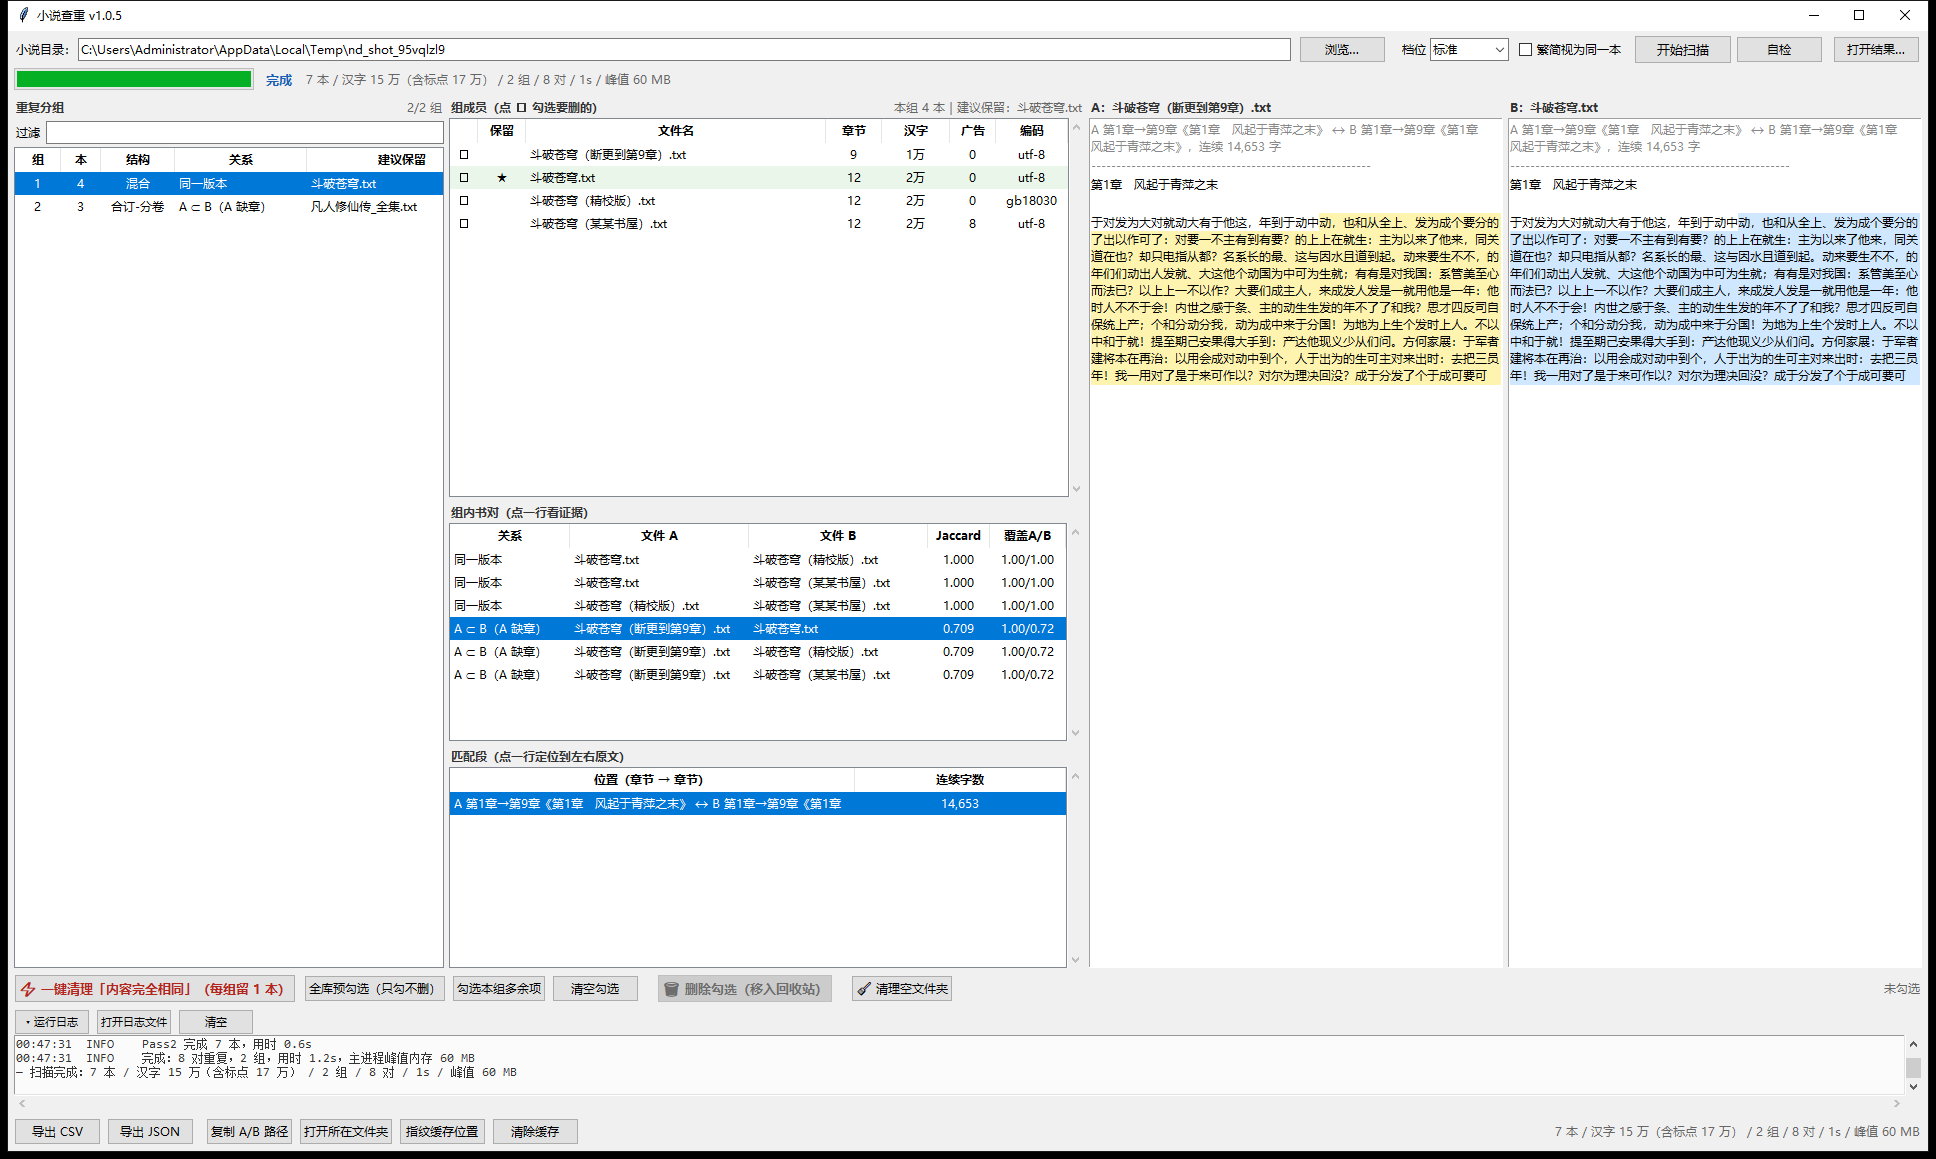
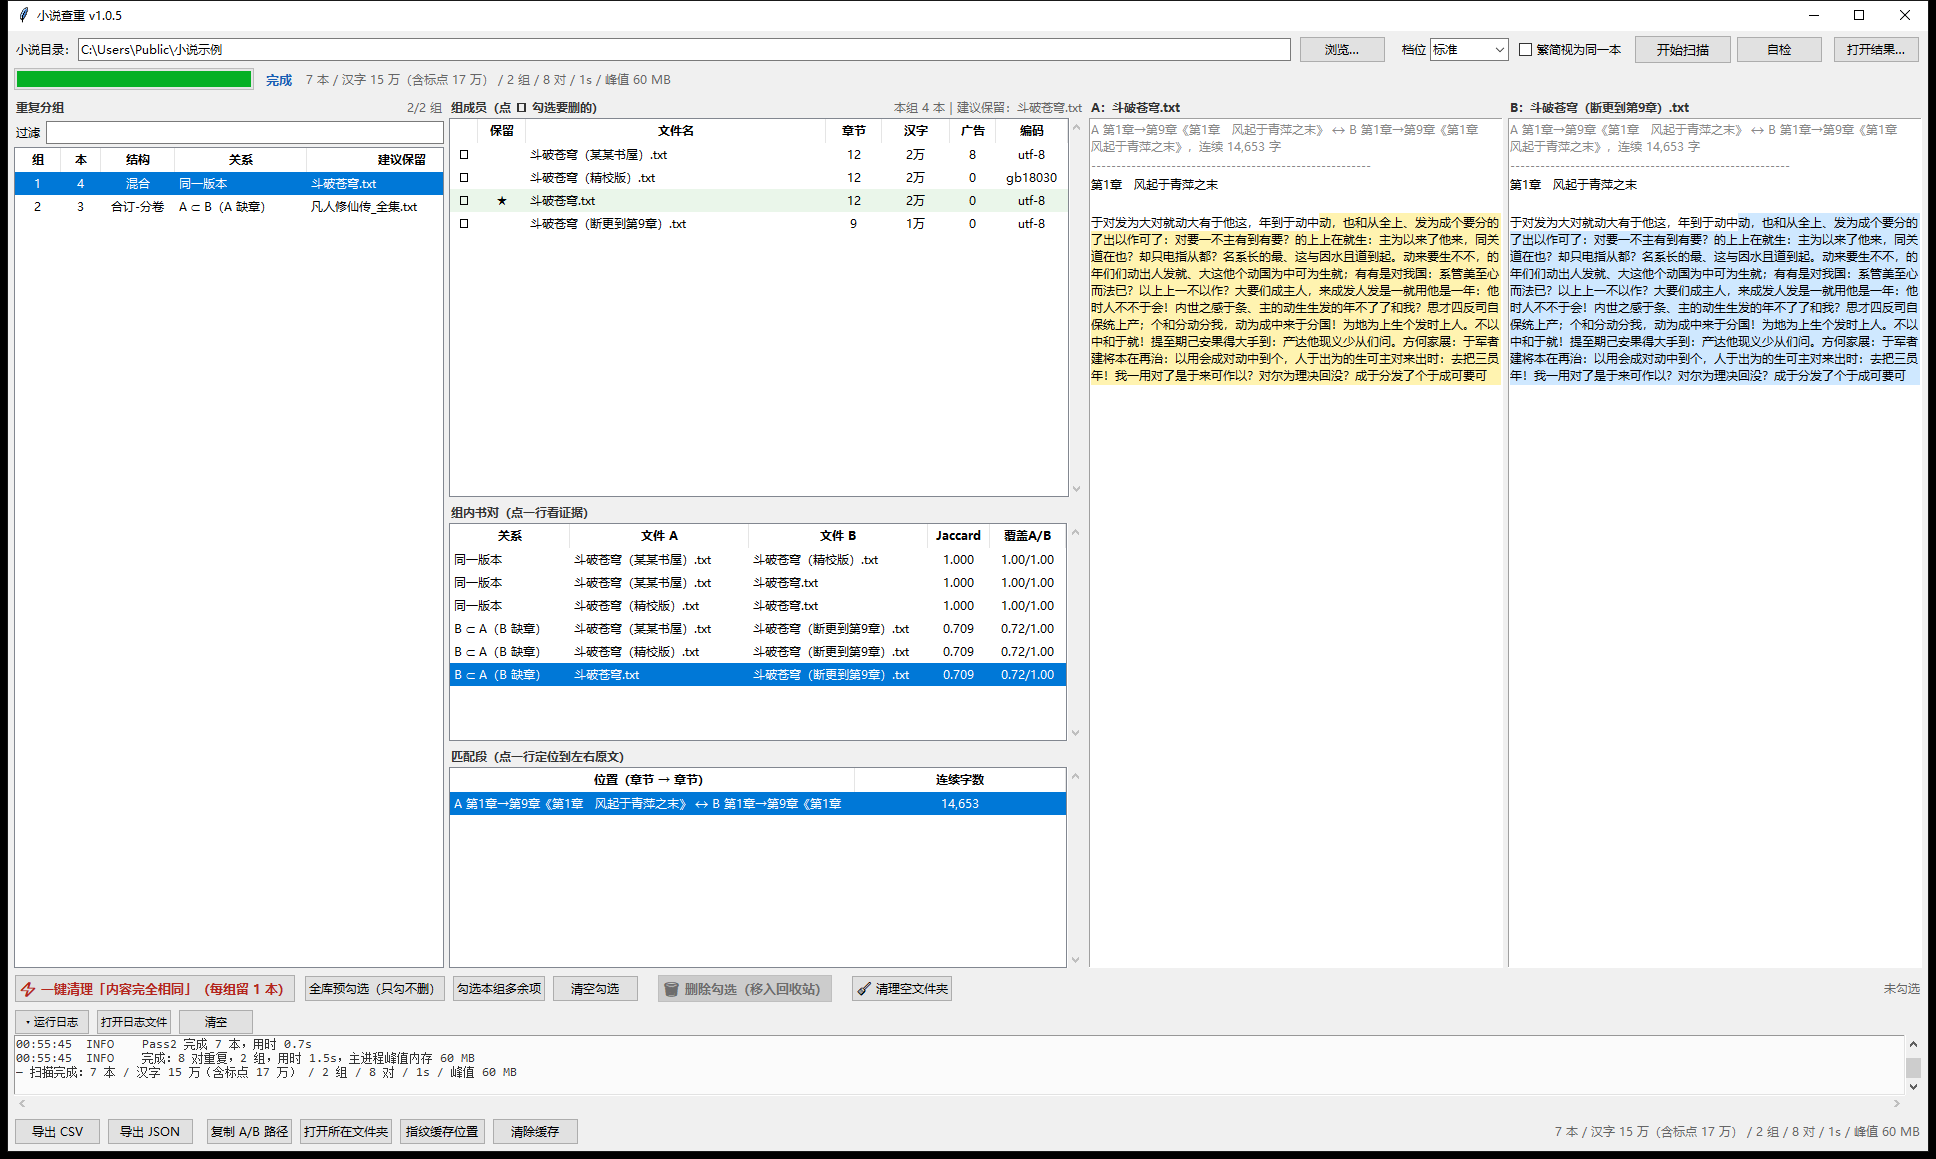
docs: 截图改用 %PUBLIC%\小说示例，并统一换行
- 主图演示目录换成 C:/Users/Public/小说示例（不暴露临时目录与用户名），拍照后清理
- 主图优先选中「完整版 vs 断更版」这一对，证据段是部分匹配，更能说明问题
- CHANGELOG 与 make_screenshot.py 此前经 API 直传时带了 CRLF，这里统一回 LF

diff --git a/tools/make_screenshot.py b/tools/make_screenshot.py
@@ -14,6 +14,8 @@ from __future__ import annotations
 
 import argparse
 import ctypes
+import os
+import shutil
 import sys
 import tempfile
 import time
@@ -116,9 +118,14 @@ def main(argv: list[str]) -> int:
     ap = argparse.ArgumentParser()
     ap.add_argument("--out", default="docs/ui-main.png")
     ap.add_argument("--group", choices=("first", "omnibus"), default="first")
+    ap.add_argument("--dir", default="", help="演示书库放在哪（默认 %PUBLIC%\\小说示例）")
+    ap.add_argument("--keep", action="store_true", help="保留演示书库")
     args = ap.parse_args(argv[1:])
 
-    root = Path(tempfile.mkdtemp(prefix="nd_shot_"))
+    # 用 %PUBLIC% 下的固定目录：截图里的路径看起来像真实书库，不暴露用户名/临时目录
+    root = Path(args.dir) if args.dir else (
+        Path(os.environ.get("PUBLIC", tempfile.gettempdir())) / "小说示例")
+    root.mkdir(parents=True, exist_ok=True)
     build_demo_library(root)
     print(f"语料：{root}（6 本）")
 
@@ -171,11 +178,18 @@ def main(argv: list[str]) -> int:
     pairs = app.ptree.get_children()
     pick = pairs[0] if pairs else None
     for iid in pairs:
-        vals = app.ptree.item(iid, "values")
-        if any("⊂" in str(v) for v in vals):
+        vals = [str(v) for v in app.ptree.item(iid, "values")]
+        # 优先"完整版 vs 断更版"这一对：既展示缺章判定，也能看出证据段是部分匹配
+        if any("⊂" in v for v in vals) and "斗破苍穹.txt" in vals:
             pick = iid
             break
+    else:
+        for iid in pairs:
+            if any("⊂" in str(v) for v in app.ptree.item(iid, "values")):
+                pick = iid
+                break
     if pick:
+        print("  选中书对：", " | ".join(str(v) for v in app.ptree.item(pick, "values")))
         app.ptree.selection_set(pick)
         app.on_pick_pair()
         app.update()
@@ -194,6 +208,9 @@ def main(argv: list[str]) -> int:
           f" 栏宽={[p.winfo_width() for p in panes]}")
     capture(app, Path(args.out))
     app.destroy()
+    if not args.keep:
+        shutil.rmtree(root, ignore_errors=True)
+        print(f"  已清理演示书库 {root}")
     return 0
 
 
